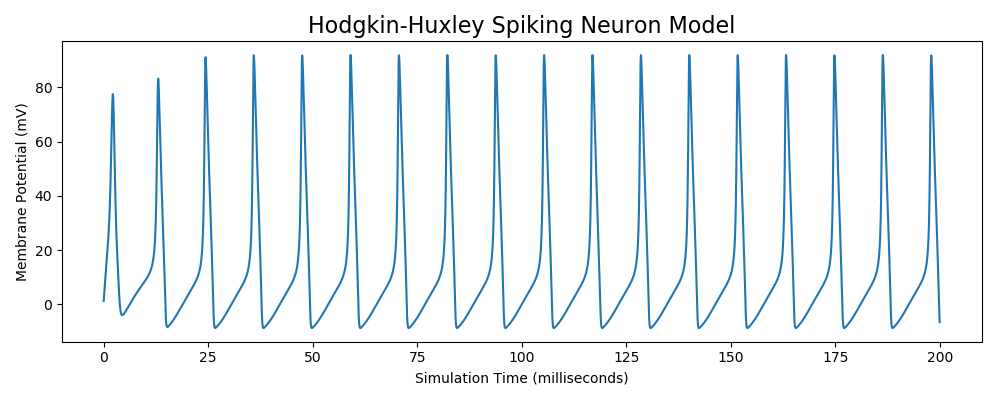
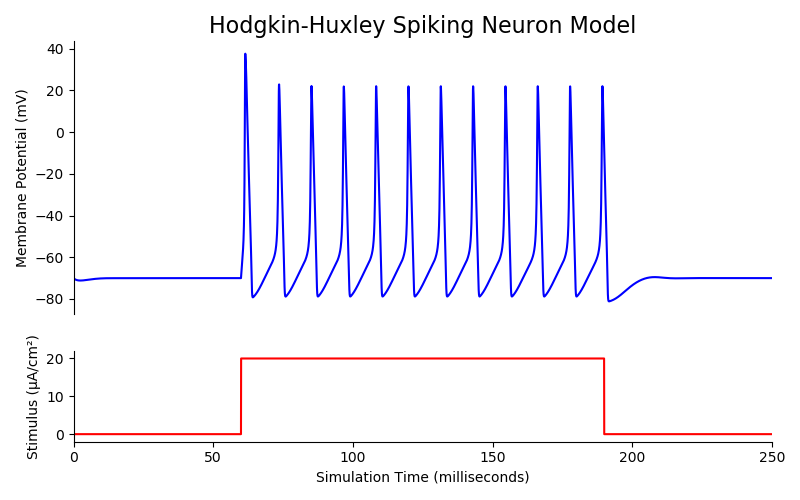
improve steady state calculations

Changed region(s): [[0.0, 0.03, 1.0, 0.99], [0.9375, 0.75, 0.9688, 0.81], [0.0625, 0.09, 0.0938, 0.12]]

diff --git a/dev/concept4.py b/dev/concept4.py
@@ -1,3 +1,7 @@
+"""
+Python implementation of the Hodgkin-Huxley spiking neuron model
+https://github.com/swharden/pyHH
+"""
 import matplotlib.pyplot as plt
 import numpy as np
 
@@ -6,7 +10,7 @@ class HHModel:
     """The HHModel tracks conductances of 3 channels to calculate Vm"""
 
     class Gate:
-        """The Gate object manages a channel's open state"""
+        """The Gate object manages a channel's kinetics and open state"""
         alpha, beta, state = 0, 0, 0
 
         def update(self, deltaTms):
@@ -14,62 +18,82 @@ class HHModel:
             betaState = self.beta * self.state
             self.state += deltaTms * (alphaState - betaState)
 
+        def setInfiniteState(self):
+            self.state = self.alpha / (self.alpha + self.beta)
+
     ENa, EK, EKleak = 115, -12, 10.6
     gNa, gK, gKleak = 120, 36, 0.3
     m, n, h = Gate(), Gate(), Gate()
     Cm = 1
 
-    def __init__(self, startingVoltage=0, deltaTms=0.05):
+    def __init__(self, startingVoltage=0):
         self.Vm = startingVoltage
-        self.deltaTms = deltaTms
+        self.UpdateGateTimeConstants(startingVoltage)
+        self.m.setInfiniteState()
+        self.n.setInfiniteState()
+        self.n.setInfiniteState()
 
-    def Iterate(self, stimulusCurrent=0):
-        # calculate alpha and beta for every gate using our latest Vm
-        self.n.alpha = .01 * ((10-self.Vm) / (np.exp((10-self.Vm)/10)-1))
-        self.n.beta = .125*np.exp(-self.Vm/80)
-        self.m.alpha = .1*((25-self.Vm) / (np.exp((25-self.Vm)/10)-1))
-        self.m.beta = 4*np.exp(-self.Vm/18)
-        self.h.alpha = .07*np.exp(-self.Vm/20)
-        self.h.beta = 1/(np.exp((30-self.Vm)/10)+1)
+    def UpdateGateTimeConstants(self, Vm):
+        """Update time constants of all gates based on the given Vm"""
+        self.n.alpha = .01 * ((10-Vm) / (np.exp((10-Vm)/10)-1))
+        self.n.beta = .125*np.exp(-Vm/80)
+        self.m.alpha = .1*((25-Vm) / (np.exp((25-Vm)/10)-1))
+        self.m.beta = 4*np.exp(-Vm/18)
+        self.h.alpha = .07*np.exp(-Vm/20)
+        self.h.beta = 1/(np.exp((30-Vm)/10)+1)
 
-        # calculate channel currents using our new gate time constants
+    def UpdateCellVoltage(self, stimulusCurrent, deltaTms):
+        """calculate channel currents using the latest gate time constants"""
         INa = np.power(self.m.state, 3) * self.gNa * \
             self.h.state*(self.Vm-self.ENa)
         IK = np.power(self.n.state, 4) * self.gK * (self.Vm-self.EK)
         IKleak = self.gKleak * (self.Vm-self.EKleak)
-
-        # calculate total membrane current
         Isum = stimulusCurrent - INa - IK - IKleak
+        self.Vm += deltaTms * Isum / self.Cm
 
-        # calculate new Vm using membrane current for a step size and Cm
-        self.Vm += self.deltaTms * Isum / self.Cm
+    def UpdateGateStates(self, deltaTms):
+        """calculate new channel open states using latest Vm"""
+        self.n.update(deltaTms)
+        self.m.update(deltaTms)
+        self.h.update(deltaTms)
 
-        # calculate new channel states using latest Vm
-        self.n.update(self.deltaTms)
-        self.m.update(self.deltaTms)
-        self.h.update(self.deltaTms)
-
-        return self.Vm
+    def Iterate(self, stimulusCurrent=0, deltaTms=0.05):
+        self.UpdateGateTimeConstants(self.Vm)
+        self.UpdateCellVoltage(stimulusCurrent, deltaTms)
+        self.UpdateGateStates(deltaTms)
 
 
 if __name__ == "__main__":
-
     hh = HHModel()
-    simulationLengthMsec = 200
-    simulationPoints = int(simulationLengthMsec / hh.deltaTms)
-    voltages = np.empty(simulationPoints)
-    times = np.arange(simulationPoints) * hh.deltaTms
+    pointCount = 5000
+    voltages = np.empty(pointCount)
+    times = np.arange(pointCount) * 0.05
+    stim = np.zeros(pointCount)
+    stim[1200:3800] = 20  # create a square pulse
 
     for i in range(len(times)):
-        hh.Iterate(stimulusCurrent=20)
+        hh.Iterate(stimulusCurrent=stim[i], deltaTms=0.05)
         voltages[i] = hh.Vm
-        # note: you can also plot hh's n, m, and k (channel open states)
+        # note: you could also plot hh's n, m, and k (channel open states)
 
-    plt.figure(figsize=(10, 4))
-    plt.plot(times, voltages)
-    plt.ylabel("Membrane Potential (mV)")
-    plt.xlabel("Simulation Time (milliseconds)")
-    plt.title("Hodgkin-Huxley Spiking Neuron Model", fontSize=16)
+    f, (ax1, ax2) = plt.subplots(2, 1, sharex=True, figsize=(8, 5),
+                                 gridspec_kw={'height_ratios': [3, 1]})
+
+    ax1.plot(times, voltages - 70, 'b')
+    ax1.set_ylabel("Membrane Potential (mV)")
+    ax1.set_title("Hodgkin-Huxley Spiking Neuron Model", fontSize=16)
+    ax1.spines['right'].set_visible(False)
+    ax1.spines['top'].set_visible(False)
+    ax1.spines['bottom'].set_visible(False)
+    ax1.tick_params(bottom=False)
+
+    ax2.plot(times, stim, 'r')
+    ax2.set_ylabel("Stimulus (µA/cm²)")
+    ax2.set_xlabel("Simulation Time (milliseconds)")
+    ax2.spines['right'].set_visible(False)
+    ax2.spines['top'].set_visible(False)
+
+    plt.margins(0, 0.1)
     plt.tight_layout()
     plt.savefig("dev/concept4.png")
     plt.show()

diff --git a/src/pyhh/models.py b/src/pyhh/models.py
@@ -1,45 +1,58 @@
 import numpy as np
 
-class Gate:
-    """The Gate object manages a channel's open state"""
-    alpha, beta, state = 0, 0, 0
-
-    def update(self, deltaTms):
-        alphaState = self.alpha * (1-self.state)
-        betaState = self.beta * self.state
-        self.state += deltaTms * (alphaState - betaState)
-
 
 class HHModel:
     """The HHModel tracks conductances of 3 channels to calculate Vm"""
 
+    class Gate:
+        """The Gate object manages a channel's kinetics and open state"""
+        alpha, beta, state = 0, 0, 0
+
+        def update(self, deltaTms):
+            alphaState = self.alpha * (1-self.state)
+            betaState = self.beta * self.state
+            self.state += deltaTms * (alphaState - betaState)
+
+        def setInfiniteState(self):
+            self.state = self.alpha / (self.alpha + self.beta)
+
     ENa, EK, EKleak = 115, -12, 10.6
     gNa, gK, gKleak = 120, 36, 0.3
     m, n, h = Gate(), Gate(), Gate()
-    Cm, Vm = 1, 0
+    Cm = 1
 
-    def iterate(self, stimulusCurrent=0, deltaTms=0.05):
-        # calculate alpha and beta for every gate using our latest Vm
-        self.n.alpha = .01 * ((10-self.Vm) / (np.exp((10-self.Vm)/10)-1))
-        self.n.beta = .125*np.exp(-self.Vm/80)
-        self.m.alpha = .1*((25-self.Vm) / (np.exp((25-self.Vm)/10)-1))
-        self.m.beta = 4*np.exp(-self.Vm/18)
-        self.h.alpha = .07*np.exp(-self.Vm/20)
-        self.h.beta = 1/(np.exp((30-self.Vm)/10)+1)
+    def __init__(self, startingVoltage=0):
+        self.Vm = startingVoltage
+        self._UpdateGateTimeConstants(startingVoltage)
+        self.m.setInfiniteState()
+        self.n.setInfiniteState()
+        self.n.setInfiniteState()
 
-        # calculate channel currents using our new gate time constants
+    def _UpdateGateTimeConstants(self, Vm):
+        """Update time constants of all gates based on the given Vm"""
+        self.n.alpha = .01 * ((10-Vm) / (np.exp((10-Vm)/10)-1))
+        self.n.beta = .125*np.exp(-Vm/80)
+        self.m.alpha = .1*((25-Vm) / (np.exp((25-Vm)/10)-1))
+        self.m.beta = 4*np.exp(-Vm/18)
+        self.h.alpha = .07*np.exp(-Vm/20)
+        self.h.beta = 1/(np.exp((30-Vm)/10)+1)
+
+    def _UpdateCellVoltage(self, stimulusCurrent, deltaTms):
+        """calculate channel currents using the latest gate time constants"""
         INa = np.power(self.m.state, 3) * self.gNa * \
             self.h.state*(self.Vm-self.ENa)
         IK = np.power(self.n.state, 4) * self.gK * (self.Vm-self.EK)
         IKleak = self.gKleak * (self.Vm-self.EKleak)
-
-        # calculate total membrane current
         Isum = stimulusCurrent - INa - IK - IKleak
-
-        # calculate new Vm using membrane current for a step size and Cm
         self.Vm += deltaTms * Isum / self.Cm
 
-        # calculate new channel states using latest Vm
+    def _UpdateGateStates(self, deltaTms):
+        """calculate new channel open states using latest Vm"""
         self.n.update(deltaTms)
         self.m.update(deltaTms)
         self.h.update(deltaTms)
+
+    def iterate(self, stimulusCurrent=0, deltaTms=0.05):
+        self._UpdateGateTimeConstants(self.Vm)
+        self._UpdateCellVoltage(stimulusCurrent, deltaTms)
+        self._UpdateGateStates(deltaTms)
